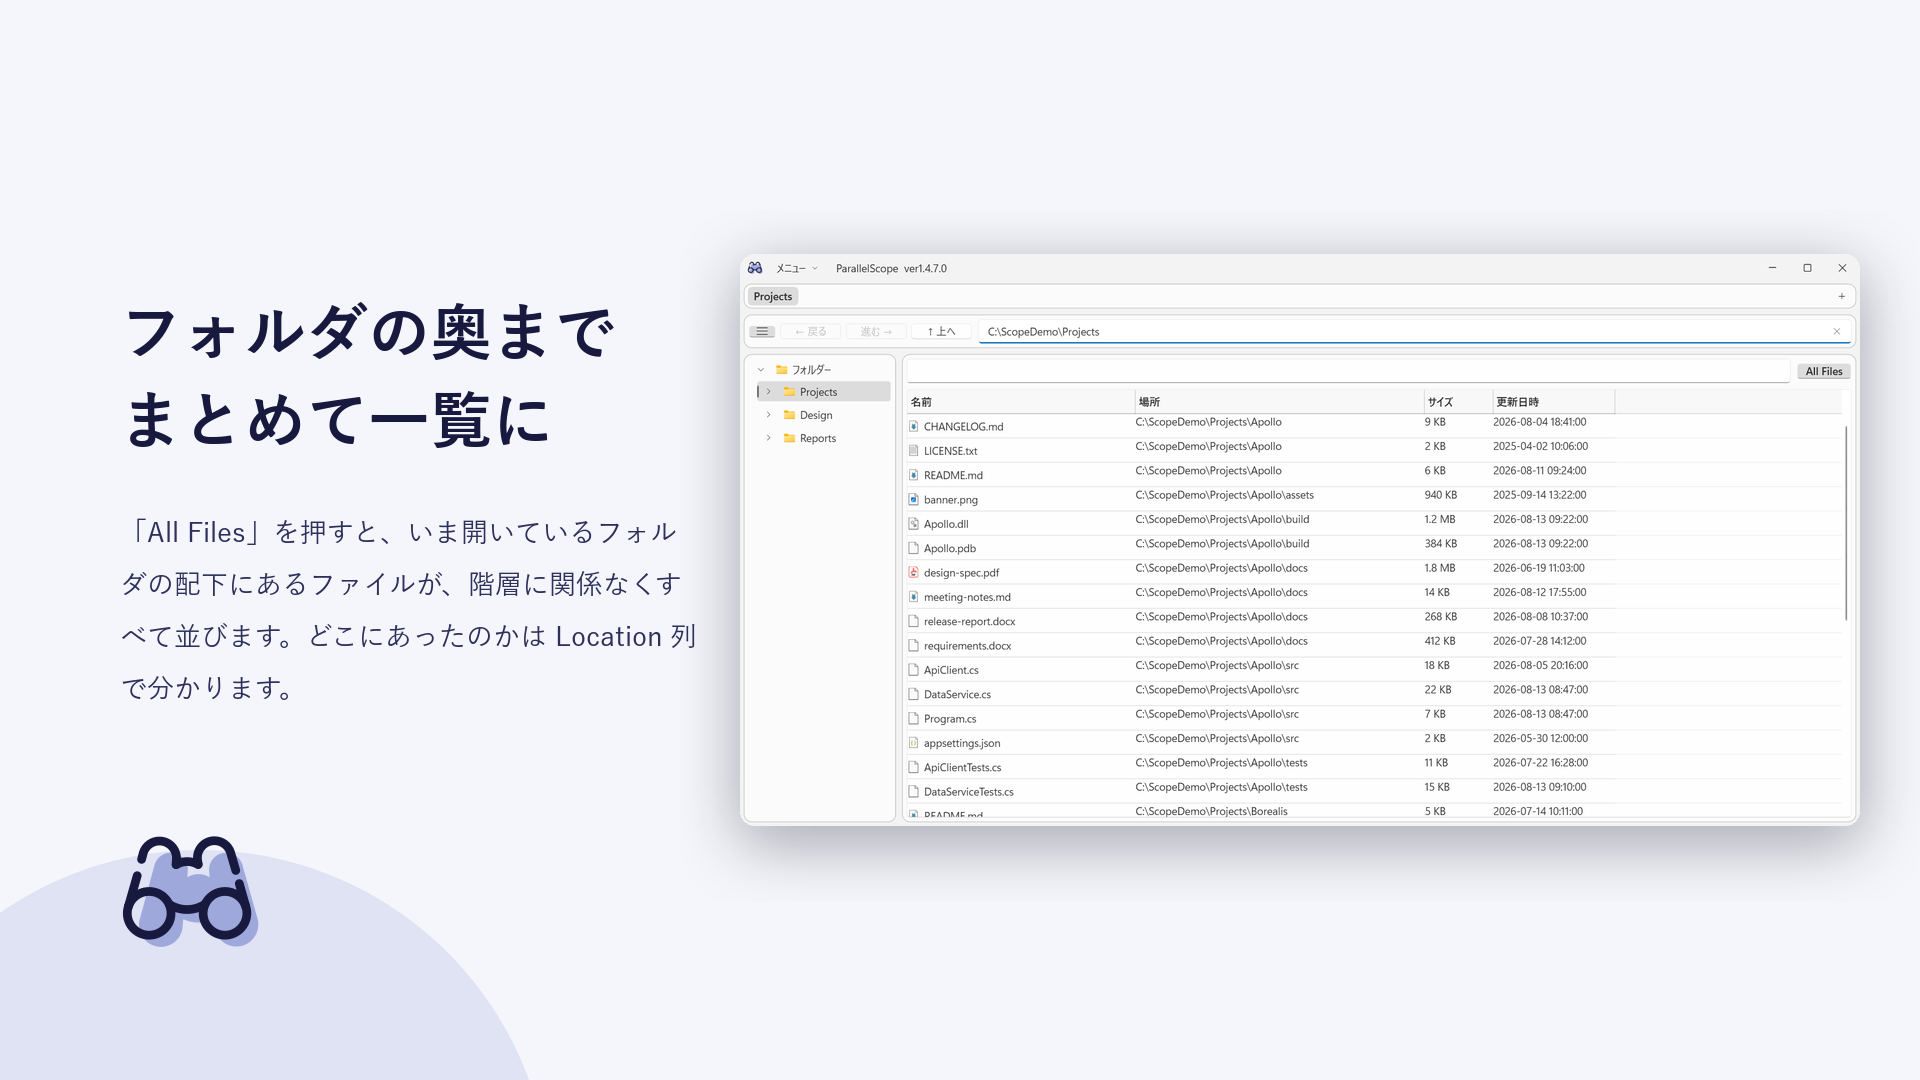
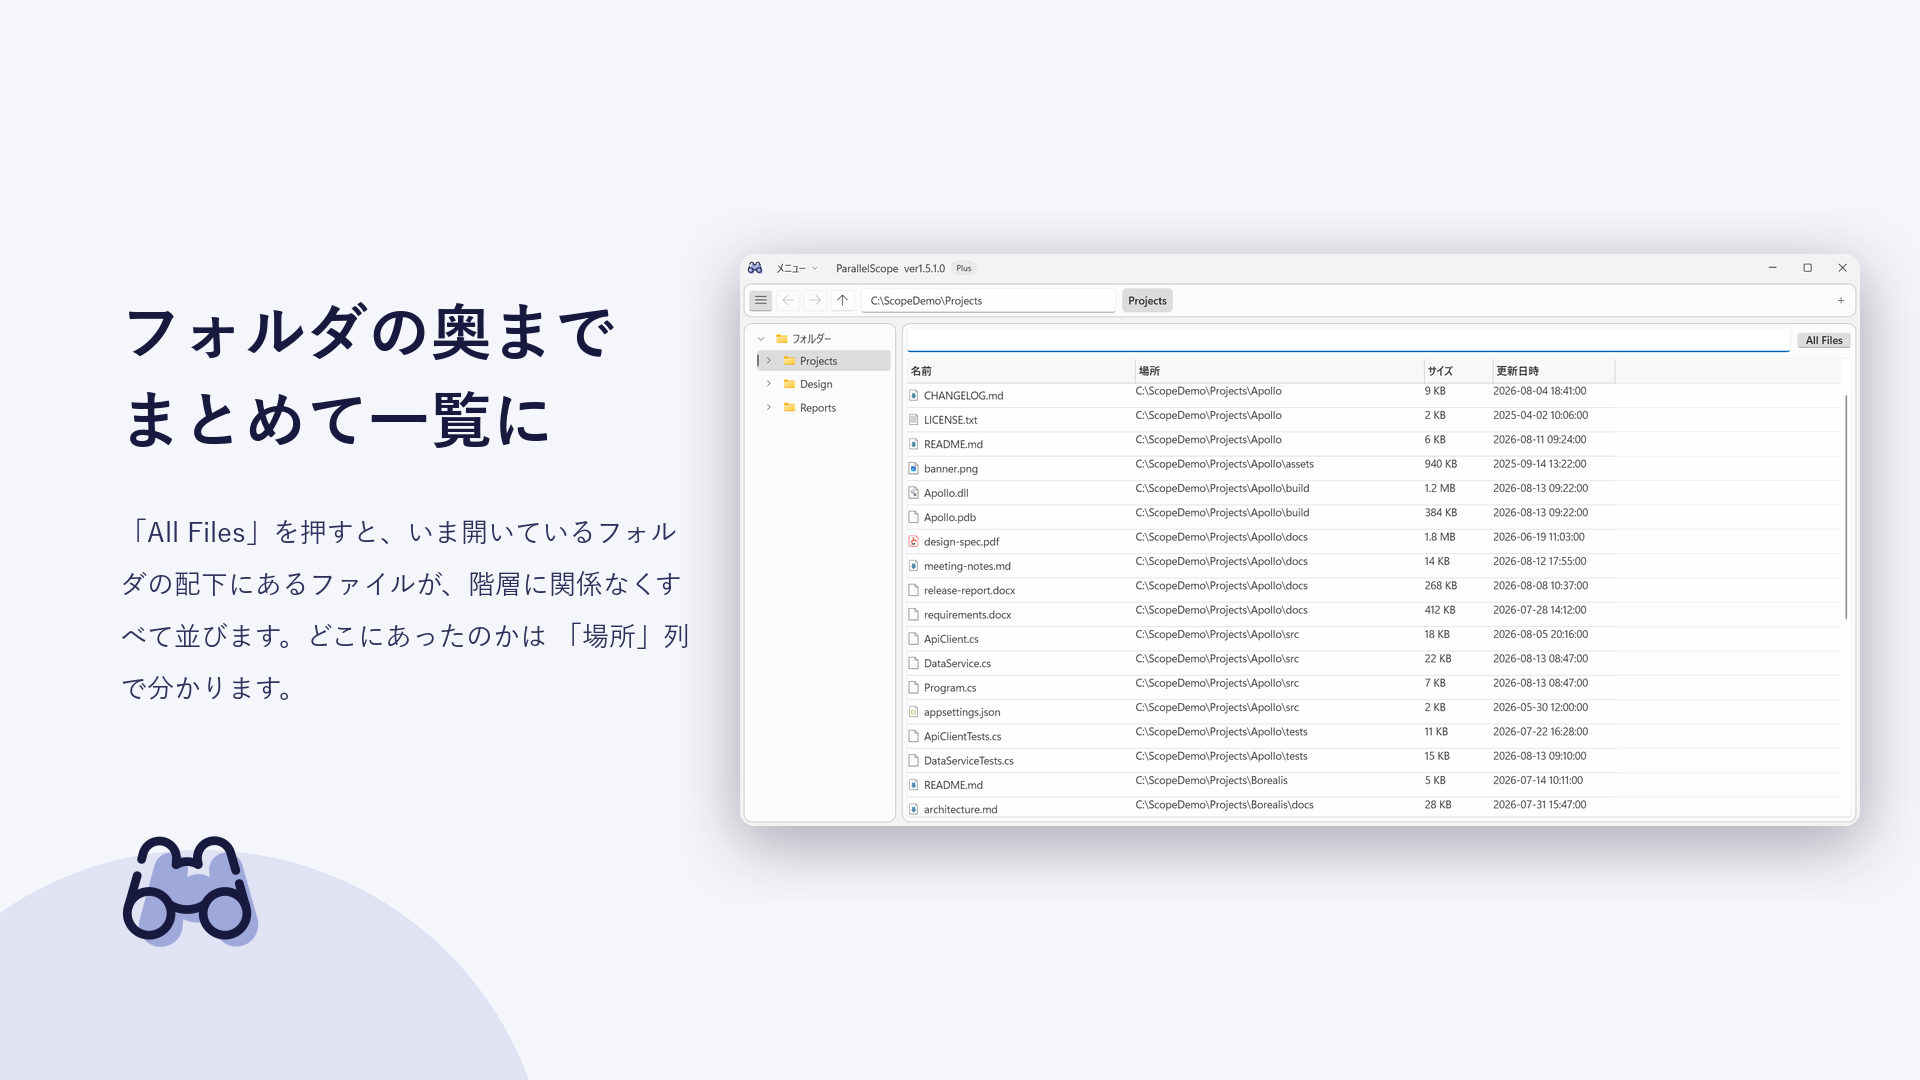
ストア用スクリーンショットをver1.5.1.0で撮り直す
撮影時にマウスとアドレス欄のツールチップが写り込まないよう、撮る直前に
カーソルを画面の隅へ逃がし、フォーカスを検索欄へ移すようにする。
日本語版の説明文に残っていた英語の列名「Location」を「場所」に直す。

Changed region(s): [[0.375, 0.2444, 0.9688, 0.7639], [0.2812, 0.5806, 0.375, 0.6111]]

diff --git a/store/assets/compose-screenshots.py b/store/assets/compose-screenshots.py
@@ -115,7 +115,7 @@ SHOTS = [
         "ja": {
             "headline": ["フォルダの奥まで", "まとめて一覧に"],
             "body": "「All Files」を押すと、いま開いているフォルダの配下にあるファイルが、"
-                    "階層に関係なくすべて並びます。どこにあったのかは Location 列で分かります。",
+                    "階層に関係なくすべて並びます。どこにあったのかは 「場所」列で分かります。",
         },
         "en": {
             "headline": ["Everything below,", "in one flat list"],
